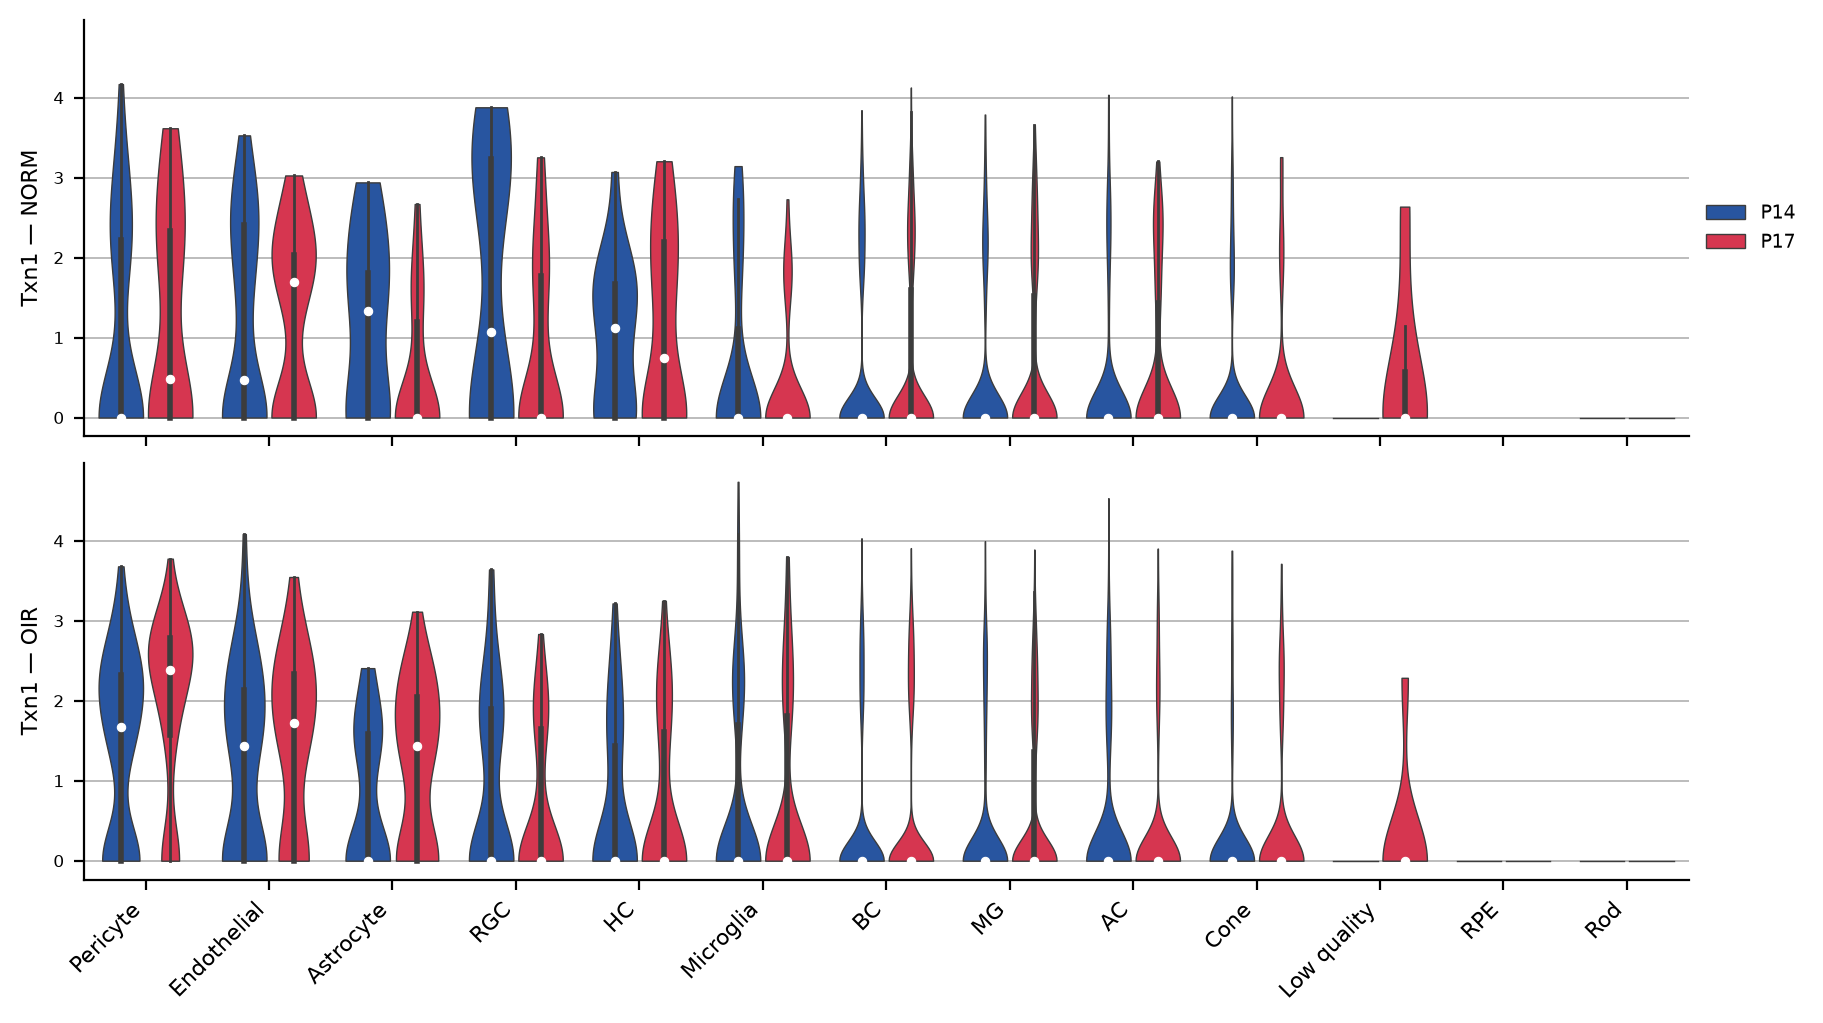
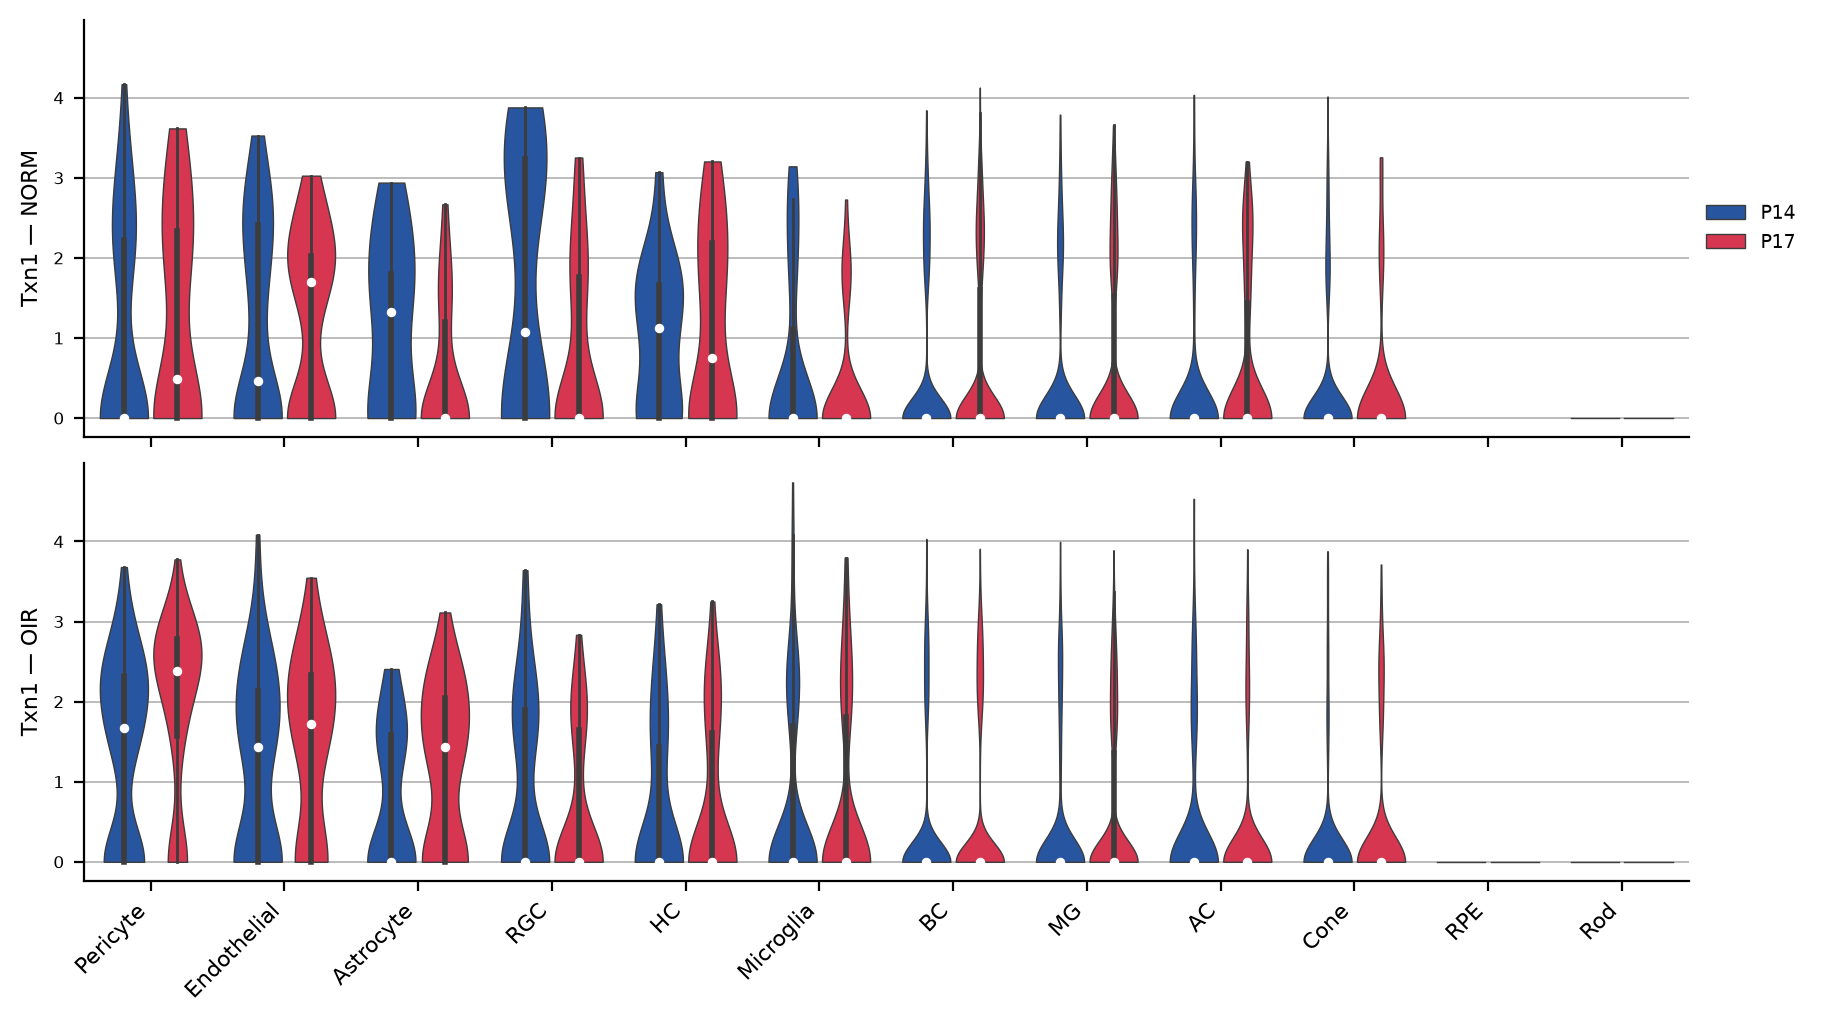
Leave the low quality cells out of the Txn1 figures
They are contamination and debris rather than a cell type, so drawing them as a
violin beside the real classes invites a comparison that means nothing. The
filter goes where txn1_df is built, which covers both violin figures, and sits
in each preparation — whole retina has no such cluster and it does nothing
there, but the two stay the same analysis.

Changed region(s): [[0.0307, 0.5152, 0.9216, 0.9697], [0.0614, 0.0909, 0.9216, 0.4545], [0.0307, 0.9091, 0.0614, 0.9394]]

diff --git a/reports/txn1-expression-retina.md b/reports/txn1-expression-retina.md
@@ -1568,6 +1568,11 @@ txn1_df = sc.get.obs_df(
     wr_joyal, keys=["TXN1", "cell_type", "condition", "timepoint"]
 )
 
+# the low quality cluster is contamination and debris rather than a cell type, so it is left
+# out of the expression figures instead of standing beside the real classes as though it were
+# one. Whole retina has no such cluster, and the filter does nothing there.
+txn1_df = txn1_df[txn1_df["cell_type"] != "Low quality"]
+
 # the reference classes on the colours they carry throughout, and Ambiguous grey —
 # those cells are drawn rather than dropped, so a figure never quietly loses them
 cell_type_palette = dict(
@@ -3130,6 +3135,11 @@ the two timepoints, drawn on a shared y axis.
 txn1_df = sc.get.obs_df(
     cd73ft_joyal, keys=["TXN1", "cell_type", "condition", "timepoint"]
 )
+
+# the low quality cluster is contamination and debris rather than a cell type, so it is left
+# out of the expression figures instead of standing beside the real classes as though it were
+# one. Whole retina has no such cluster, and the filter does nothing there.
+txn1_df = txn1_df[txn1_df["cell_type"] != "Low quality"]
 
 # the reference classes on the colours they carry throughout, and Ambiguous grey —
 # those cells are drawn rather than dropped, so a figure never quietly loses them
